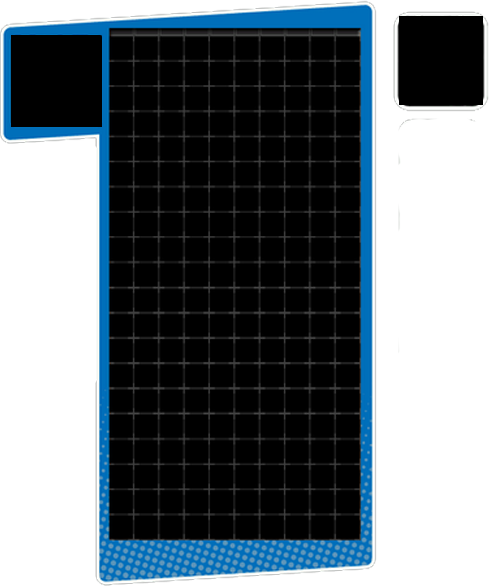
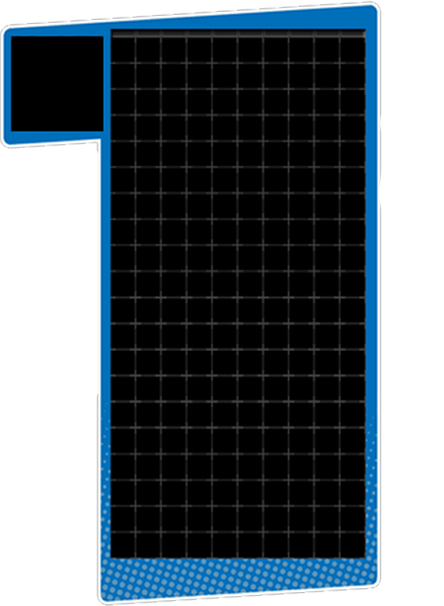
att playerfield

Changed region(s): [[0.0, 0.0, 1.0, 1.0], [0.5856, 0.3993, 0.6149, 0.4915]]

diff --git a/Tetris/Tetris/Level1.cpp b/Tetris/Tetris/Level1.cpp
@@ -28,10 +28,14 @@ void Level1::Init()
     scene = new Scene();
 
     // cria playerfield
-    playerField = new Sprite("Resources/PlayerfieldBlue.png");
+    playerField = new Playerfield();
     block = new Block();
     scene->Add(block, MOVING);
 
+    scene->Add(playerField, STATIC);
+
+    backg = new Sprite("Resources/background.jpg");
+    
     
 }
 
@@ -39,7 +43,6 @@ void Level1::Init()
 
 void Level1::Finalize()
 {
-    delete playerField;
     delete scene;
 }
 
@@ -81,12 +84,13 @@ void Level1::Update()
 void Level1::Draw()
 {
     // desenha cena
-    playerField->Draw(float(window->CenterX()), float(window->CenterY()), Layer::BACK);
     scene->Draw();
 
     // desenha bounding box dos objetos
     if (viewBBox)
         scene->DrawBBox();
+
+    backg->Draw(float(window->CenterX()), float(window->CenterY()), Layer::BACK);
 }
 
 // ------------------------------------------------------------------------------

diff --git a/Tetris/Tetris/Level1.h b/Tetris/Tetris/Level1.h
@@ -19,6 +19,7 @@
 #include "Sprite.h"
 #include "Scene.h"
 #include "Block.h"
+#include "PlayerField.h"
 
 
 // ------------------------------------------------------------------------------
@@ -26,7 +27,9 @@
 class Level1 : public Game
 {
 private:
-    Sprite * playerField = nullptr;       // playerfield
+    Playerfield * playerField = nullptr; // playerfield
+    Sprite * backg = nullptr;       // background
+
     Scene  * scene = nullptr;       // gerenciador de cena
     Block* block = nullptr;
 
